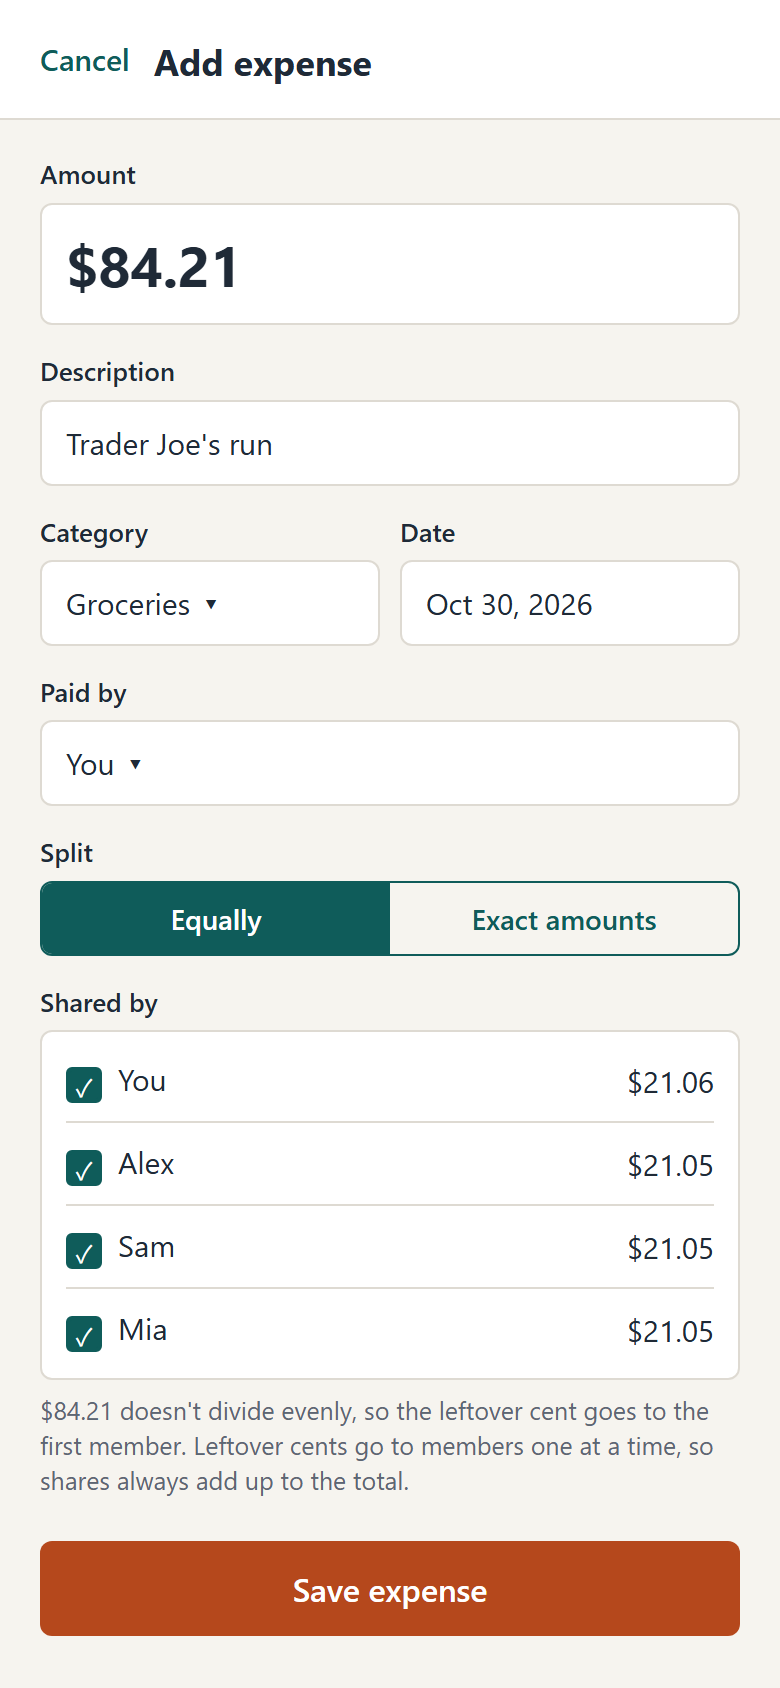
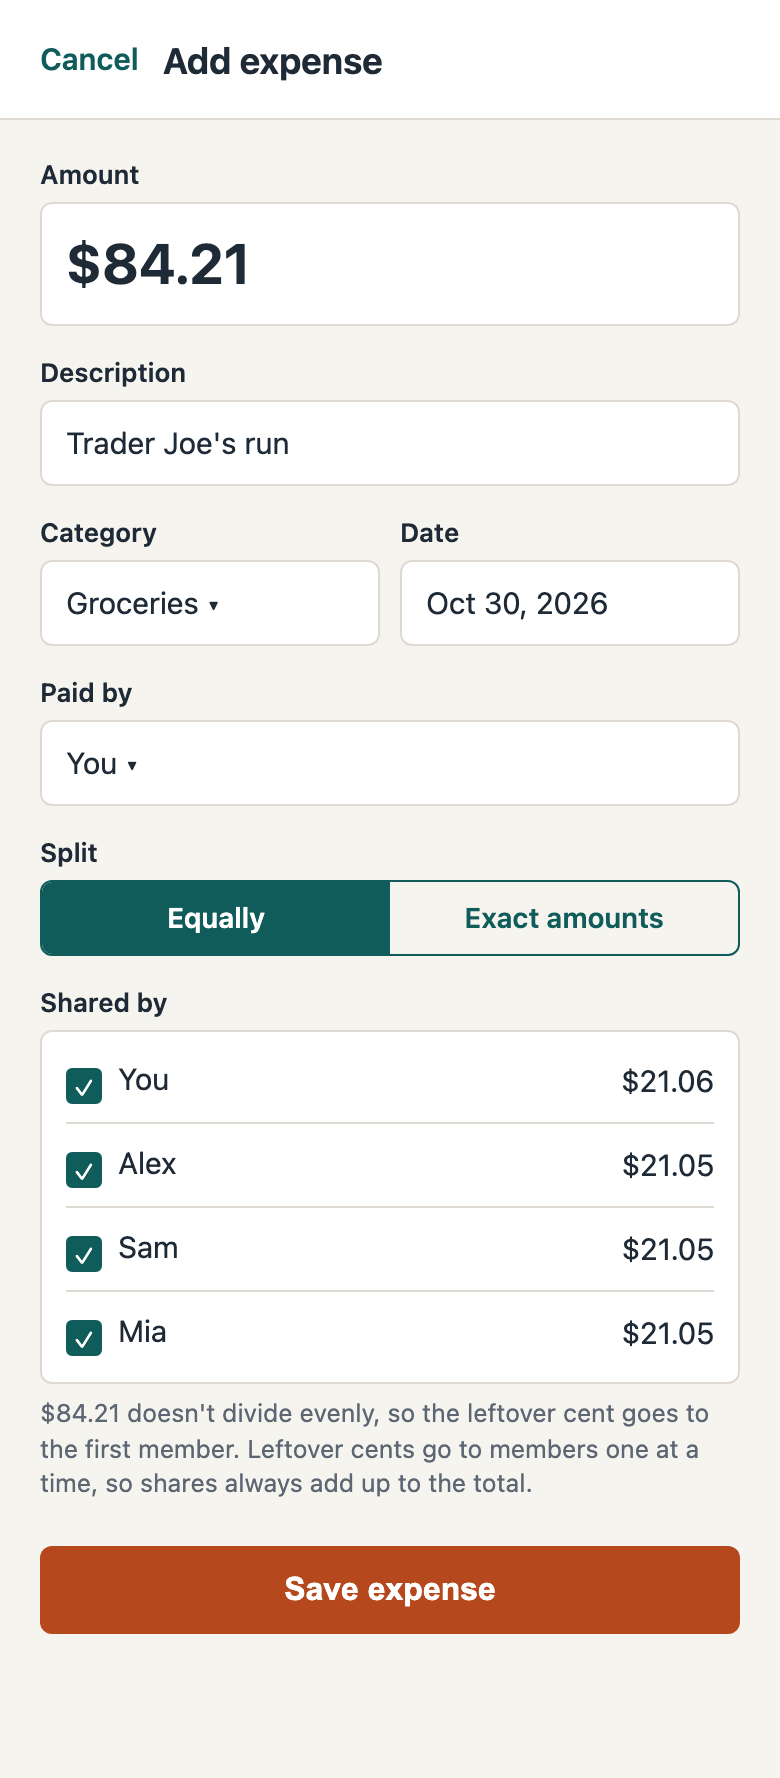
docs(design): add settle up and insights mockups (#5)
Adds the two missing screens, links them from the home screen and nav, and adds scripts/render-mockups.mjs. All five PNGs were re-rendered together so fonts and sizes match.

diff --git a/docs/design/mockup.html b/docs/design/mockup.html
@@ -1,8 +1,8 @@
 <!doctype html>
 <!--
-  Placeholder mockups for CommonPot (issue #5), phone width 390 px.
-  Open mockup.html#home, #add or #exact to see each screen; the PNGs next to this file are renders of those states.
-  Replace with the final mockups and DESIGN.md when #5 is done.
+  Mockups for CommonPot (issue #5), phone width 390 px. Colors and type come from DESIGN.md.
+  Open mockup.html#home, #add, #exact, #settle or #insights to see each screen.
+  The PNGs next to this file are renders of those states (scripts/render-mockups.mjs).
 -->
 <html lang="en">
   <head>
@@ -353,6 +353,120 @@
         border-radius: var(--radius);
         padding: 4px 12px;
       }
+
+      /* settle up */
+      .pay {
+        padding: 14px 0;
+        border-top: 1px solid var(--line);
+      }
+      .pay:first-of-type {
+        border-top: 0;
+      }
+      .pay .who {
+        font-size: 16px;
+        font-weight: 600;
+      }
+      .pay .amt {
+        font-size: 20px;
+        font-weight: 650;
+        color: var(--owed);
+      }
+      .pay .after {
+        margin: 4px 0 10px;
+      }
+      .btn {
+        display: inline-flex;
+        align-items: center;
+        justify-content: center;
+        min-height: 44px;
+        padding: 0 16px;
+        border: 1px solid var(--primary);
+        border-radius: var(--radius);
+        background: var(--surface);
+        color: var(--primary);
+        font:
+          600 15px "Segoe UI",
+          system-ui,
+          sans-serif;
+      }
+      .done {
+        color: var(--muted);
+        font-size: 14px;
+      }
+
+      /* insights */
+      .cat {
+        padding: 8px 0;
+      }
+      .cat .track {
+        height: 10px;
+        background: #ece9e2;
+        border-radius: 3px;
+        margin-top: 5px;
+      }
+      .cat .track > span {
+        display: block;
+        height: 100%;
+        background: var(--primary);
+        border-radius: 3px;
+      }
+      .trend {
+        display: grid;
+        grid-template-columns: repeat(6, 1fr);
+        gap: 10px;
+        align-items: end;
+        height: 150px;
+        padding-top: 8px;
+      }
+      .trend .col {
+        display: flex;
+        flex-direction: column;
+        justify-content: flex-end;
+        align-items: center;
+        height: 100%;
+        font-size: 12px;
+        color: var(--muted);
+        gap: 4px;
+      }
+      .trend .col > span.bar-v {
+        display: block;
+        width: 100%;
+        background: var(--primary);
+        border-radius: 3px 3px 0 0;
+      }
+      .trend .col.now > span.bar-v {
+        background: var(--accent);
+      }
+      .trend .col strong {
+        color: var(--ink);
+        font-size: 12px;
+      }
+      .toolbar {
+        display: grid;
+        grid-template-columns: 1fr;
+        gap: 10px;
+        padding: 14px 20px 4px;
+      }
+      table.t {
+        width: 100%;
+        border-collapse: collapse;
+        font-size: 14px;
+      }
+      table.t th,
+      table.t td {
+        text-align: left;
+        padding: 7px 0;
+        border-top: 1px solid var(--line);
+      }
+      table.t td:last-child,
+      table.t th:last-child {
+        text-align: right;
+      }
+      table.t th {
+        font-size: 12px;
+        color: var(--muted);
+        font-weight: 600;
+      }
     </style>
   </head>
   <body>
@@ -386,7 +500,7 @@
         </div>
         <div class="row" style="margin-top: 8px">
           <span class="small">Balances add up to $0.00</span
-          ><a class="link" href="#">Settle up</a>
+          ><a class="link" href="#settle">Settle up</a>
         </div>
       </section>
 
@@ -433,7 +547,7 @@
       <button class="fab">+ Add expense</button>
       <nav>
         <a class="on" href="#home">Home</a><a href="#">Expenses</a
-        ><a href="#">Insights</a><a href="#">My spending</a>
+        ><a href="#insights">Insights</a><a href="#">My spending</a>
       </nav>
     </div>
 
@@ -557,6 +671,152 @@
 
         <button class="save" type="button" disabled>Save expense</button>
       </form>
+    </div>
+
+    <!-- Screen 4: settle up -->
+    <div class="screen" id="settle">
+      <div class="top">
+        <a class="back" href="#home">Back</a>
+        <h1>Settle up</h1>
+      </div>
+      <section aria-labelledby="sug">
+        <h2 id="sug">Suggested payments</h2>
+        <p class="sub">
+          2 payments clear every balance in Maple St. Apartment.
+        </p>
+        <div class="pay">
+          <div class="row">
+            <span class="who">Alex pays you</span
+            ><span class="amt">$28.00</span>
+          </div>
+          <p class="small after">Alex's balance goes from −$28.00 to $0.00.</p>
+          <button class="btn" type="button">Record payment</button>
+        </div>
+        <div class="pay">
+          <div class="row">
+            <span class="who">Sam pays you</span><span class="amt">$14.50</span>
+          </div>
+          <p class="small after">Sam's balance goes from −$14.50 to $0.00.</p>
+          <button class="btn" type="button">Record payment</button>
+        </div>
+        <p class="note">
+          Recording a payment only marks it as paid in CommonPot. CommonPot
+          never moves money.
+        </p>
+      </section>
+      <section aria-labelledby="rec">
+        <h2 id="rec">Recorded this month</h2>
+        <div class="balance">
+          <span>Sam paid you</span><span class="done">$40.00 · 1h ago</span>
+        </div>
+      </section>
+      <nav>
+        <a class="on" href="#home">Home</a><a href="#">Expenses</a
+        ><a href="#insights">Insights</a><a href="#">My spending</a>
+      </nav>
+    </div>
+
+    <!-- Screen 5: insights -->
+    <div class="screen" id="insights">
+      <header>
+        <div class="row">
+          <div>
+            <div class="eyebrow">Maple St. Apartment</div>
+            <h1>Insights</h1>
+          </div>
+        </div>
+      </header>
+      <div class="toolbar">
+        <div class="seg" role="radiogroup" aria-label="Whose spending">
+          <span role="radio" aria-checked="false">Me</span
+          ><span class="on" role="radio" aria-checked="true">Group</span>
+        </div>
+        <div class="grid2">
+          <div class="field">October 2026 ▾</div>
+          <div class="seg" role="radiogroup" aria-label="View">
+            <span class="on" role="radio" aria-checked="true">Chart</span
+            ><span role="radio" aria-checked="false">Table</span>
+          </div>
+        </div>
+      </div>
+      <section aria-labelledby="bycat">
+        <div class="row">
+          <h2 id="bycat">By category</h2>
+          <span class="small">Total $555.00</span>
+        </div>
+        <div class="cat">
+          <div class="row">
+            <strong>Groceries</strong><span>$336.00 · 61%</span>
+          </div>
+          <div class="track"><span style="width: 61%"></span></div>
+        </div>
+        <div class="cat">
+          <div class="row">
+            <strong>Utilities</strong><span>$96.00 · 17%</span>
+          </div>
+          <div class="track"><span style="width: 17%"></span></div>
+        </div>
+        <div class="cat">
+          <div class="row">
+            <strong>Dining out</strong><span>$58.00 · 10%</span>
+          </div>
+          <div class="track"><span style="width: 10%"></span></div>
+        </div>
+        <div class="cat">
+          <div class="row">
+            <strong>Transport</strong><span>$40.00 · 7%</span>
+          </div>
+          <div class="track"><span style="width: 7%"></span></div>
+        </div>
+        <div class="cat">
+          <div class="row"><strong>Other</strong><span>$25.00 · 5%</span></div>
+          <div class="track"><span style="width: 5%"></span></div>
+        </div>
+      </section>
+      <section aria-labelledby="trend">
+        <div class="row">
+          <h2 id="trend">Last 6 months</h2>
+          <span class="small">Group total</span>
+        </div>
+        <div
+          class="trend"
+          role="img"
+          aria-label="Group spending by month, May to October: 410, 455, 390, 520, 480 and 555 dollars"
+        >
+          <div class="col">
+            <strong>$410</strong
+            ><span class="bar-v" style="height: 74%"></span>May
+          </div>
+          <div class="col">
+            <strong>$455</strong
+            ><span class="bar-v" style="height: 82%"></span>Jun
+          </div>
+          <div class="col">
+            <strong>$390</strong
+            ><span class="bar-v" style="height: 70%"></span>Jul
+          </div>
+          <div class="col">
+            <strong>$520</strong
+            ><span class="bar-v" style="height: 94%"></span>Aug
+          </div>
+          <div class="col">
+            <strong>$480</strong
+            ><span class="bar-v" style="height: 86%"></span>Sep
+          </div>
+          <div class="col now">
+            <strong>$555</strong
+            ><span class="bar-v" style="height: 100%"></span>Oct
+          </div>
+        </div>
+        <p class="note">
+          October is the highest month so far. Switch to Table for exact
+          numbers.
+        </p>
+      </section>
+      <nav>
+        <a href="#home">Home</a><a href="#">Expenses</a
+        ><a class="on" href="#insights">Insights</a><a href="#">My spending</a>
+      </nav>
     </div>
   </body>
 </html>
